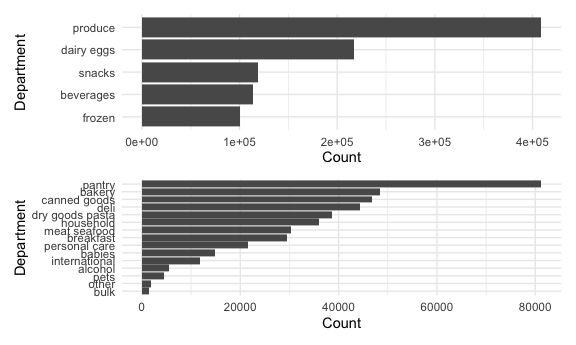
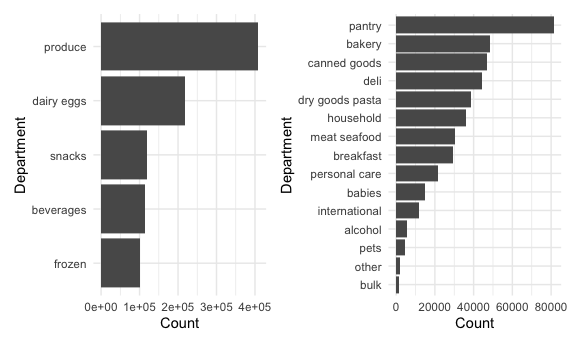
Problem 1: plot to show orders by day and what time of day they were ordered (morning/afternoon/evening/night)

diff --git a/p8105_hw3_mtr2143.md b/p8105_hw3_mtr2143.md
@@ -46,10 +46,34 @@ instacart %>%
     xlab("Department") + ylab("Count") +
     coord_flip()
 
-(dept_ge_100k_plot/dept_less_100k_plot)
+(dept_ge_100k_plot + dept_less_100k_plot)
 ```
 
 <img src="p8105_hw3_mtr2143_files/figure-gfm/unnamed-chunk-1-1.png" width="90%" />
+
+``` r
+instacart %>% 
+  select(order_id, order_dow, order_hour_of_day) %>% 
+  distinct %>% 
+  mutate(
+    time_of_day =
+      ifelse(order_hour_of_day %in% 5:11, "morning", 
+        ifelse(order_hour_of_day %in% 12:16, "afternoon", 
+          ifelse(order_hour_of_day %in% 17:20, "evening", "night")
+        )
+      ) %>% 
+    factor(levels = c("morning", "afternoon", "evening", "night"))
+    ) %>% 
+  group_by(time_of_day, order_dow) %>% 
+  summarize(
+    n_orders = n()
+  ) %>% 
+  arrange(time_of_day) %>% 
+  ggplot(aes(x = order_dow, y = n_orders , fill = time_of_day)) +
+    geom_col()
+```
+
+<img src="p8105_hw3_mtr2143_files/figure-gfm/unnamed-chunk-1-2.png" width="90%" />
 
 ###### How many aisles are there, and which aisles are the most items ordered from?
 
